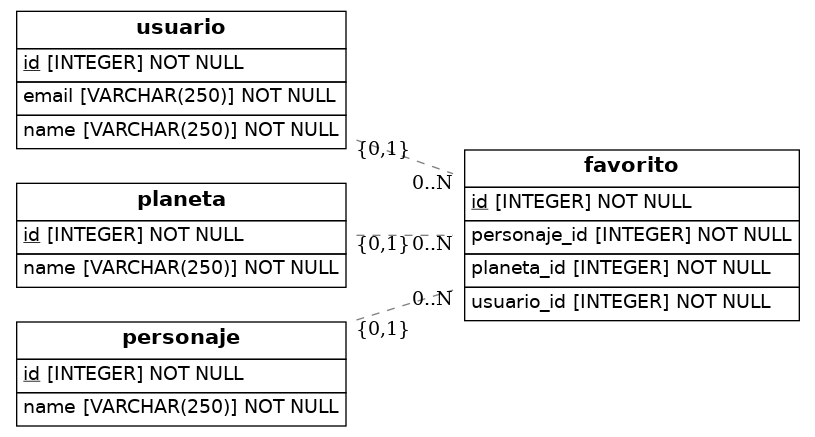
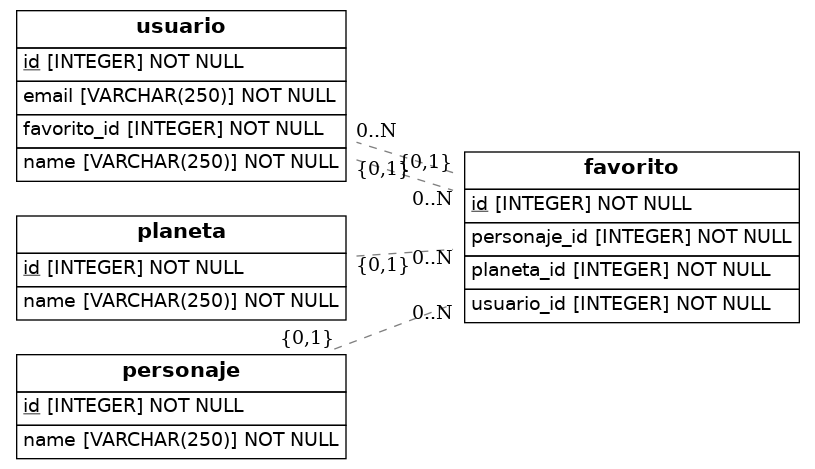
11-2

Changed region(s): [[0.0, 0.0, 0.9816, 0.9817]]

diff --git a/src/models.py b/src/models.py
@@ -33,6 +33,8 @@ class Usuario(Base):
     id = Column(Integer, primary_key=True)
     email = Column(String(250), nullable=False)
     name = Column(String(250), nullable=False)
+    favorito_id = Column(Integer, ForeignKey('favorito.id'),
+         nullable=False)
     favoritousuario = relationship('Favorito', backref='usuario', lazy=True)
 
 class Planeta(Base):
